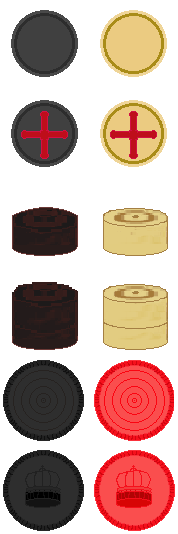
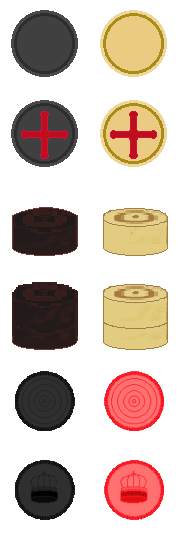
fixed 3rd checkers style

Changed region(s): [[0.5056, 0.6592, 0.9831, 1.0], [0.0, 0.6592, 0.4775, 1.0]]

diff --git a/main.cpp b/main.cpp
@@ -136,7 +136,7 @@ int main(){
 
     Checkboard checkboard;
     checkboard.setSize(8,8);
-    checkboard.drawer.setCellStyle(5);
+    checkboard.drawer.setCellStyle(2);
     checkboard.drawer.setCheckersStyle(3);
 
     CheckersArranger arranger(checkboard);
